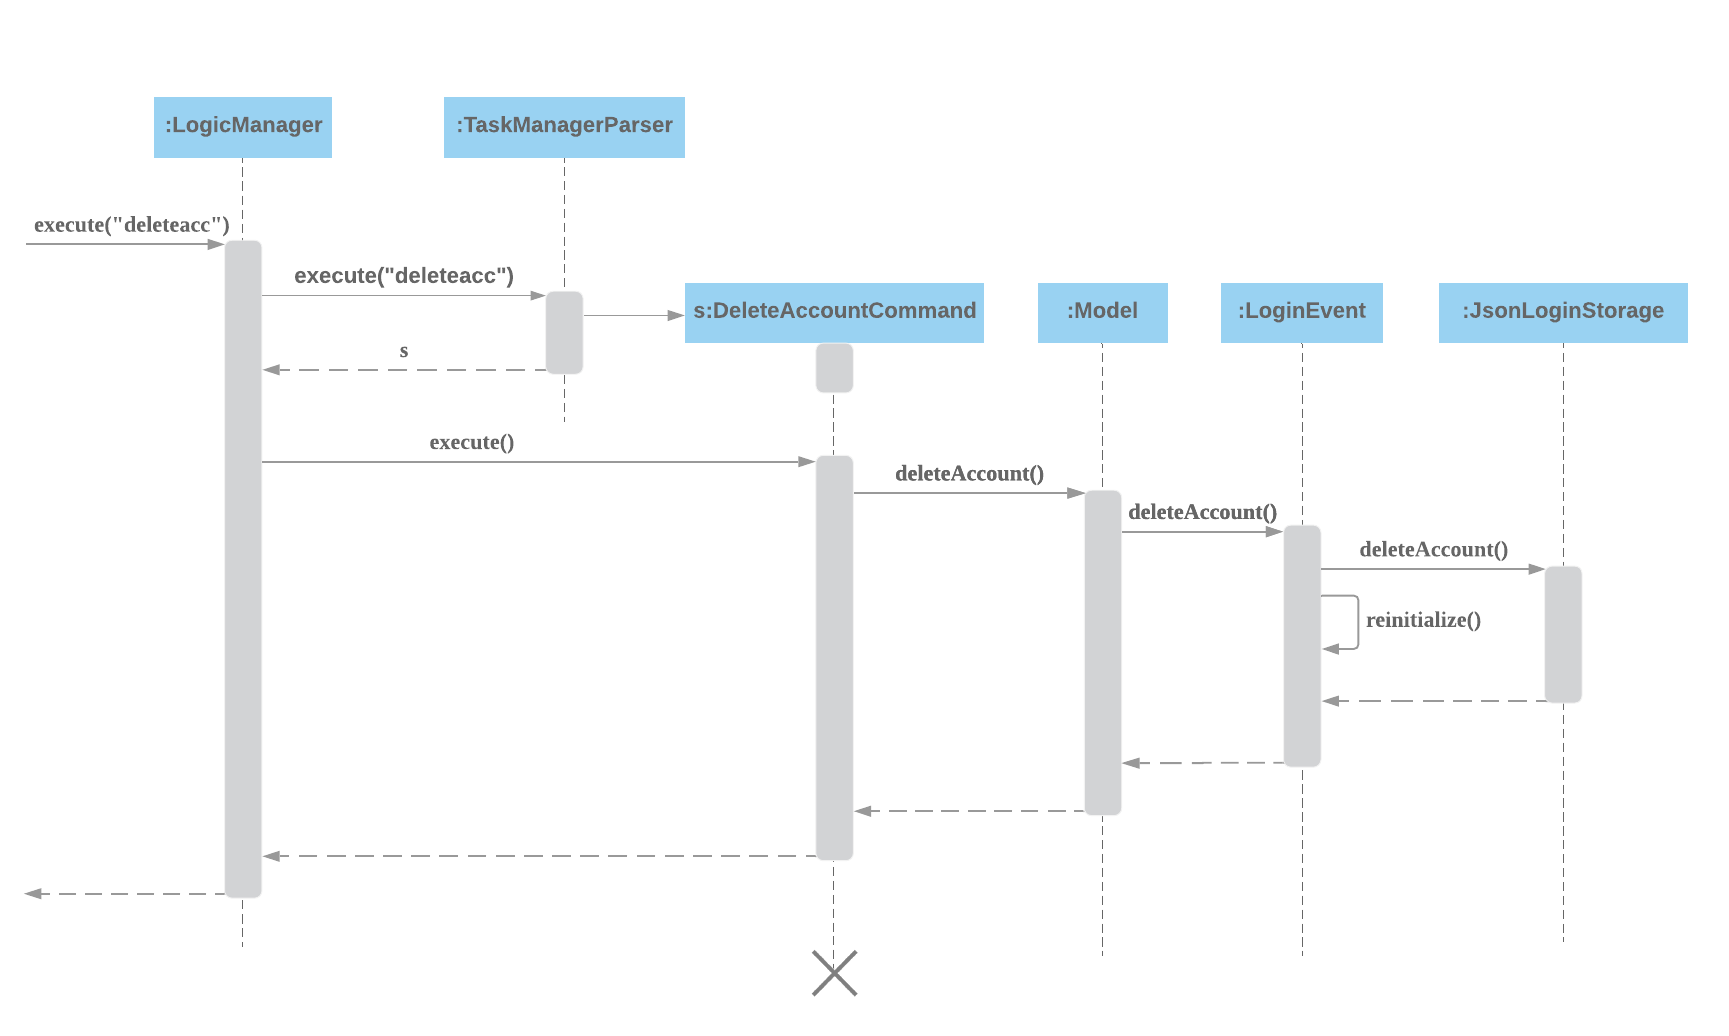
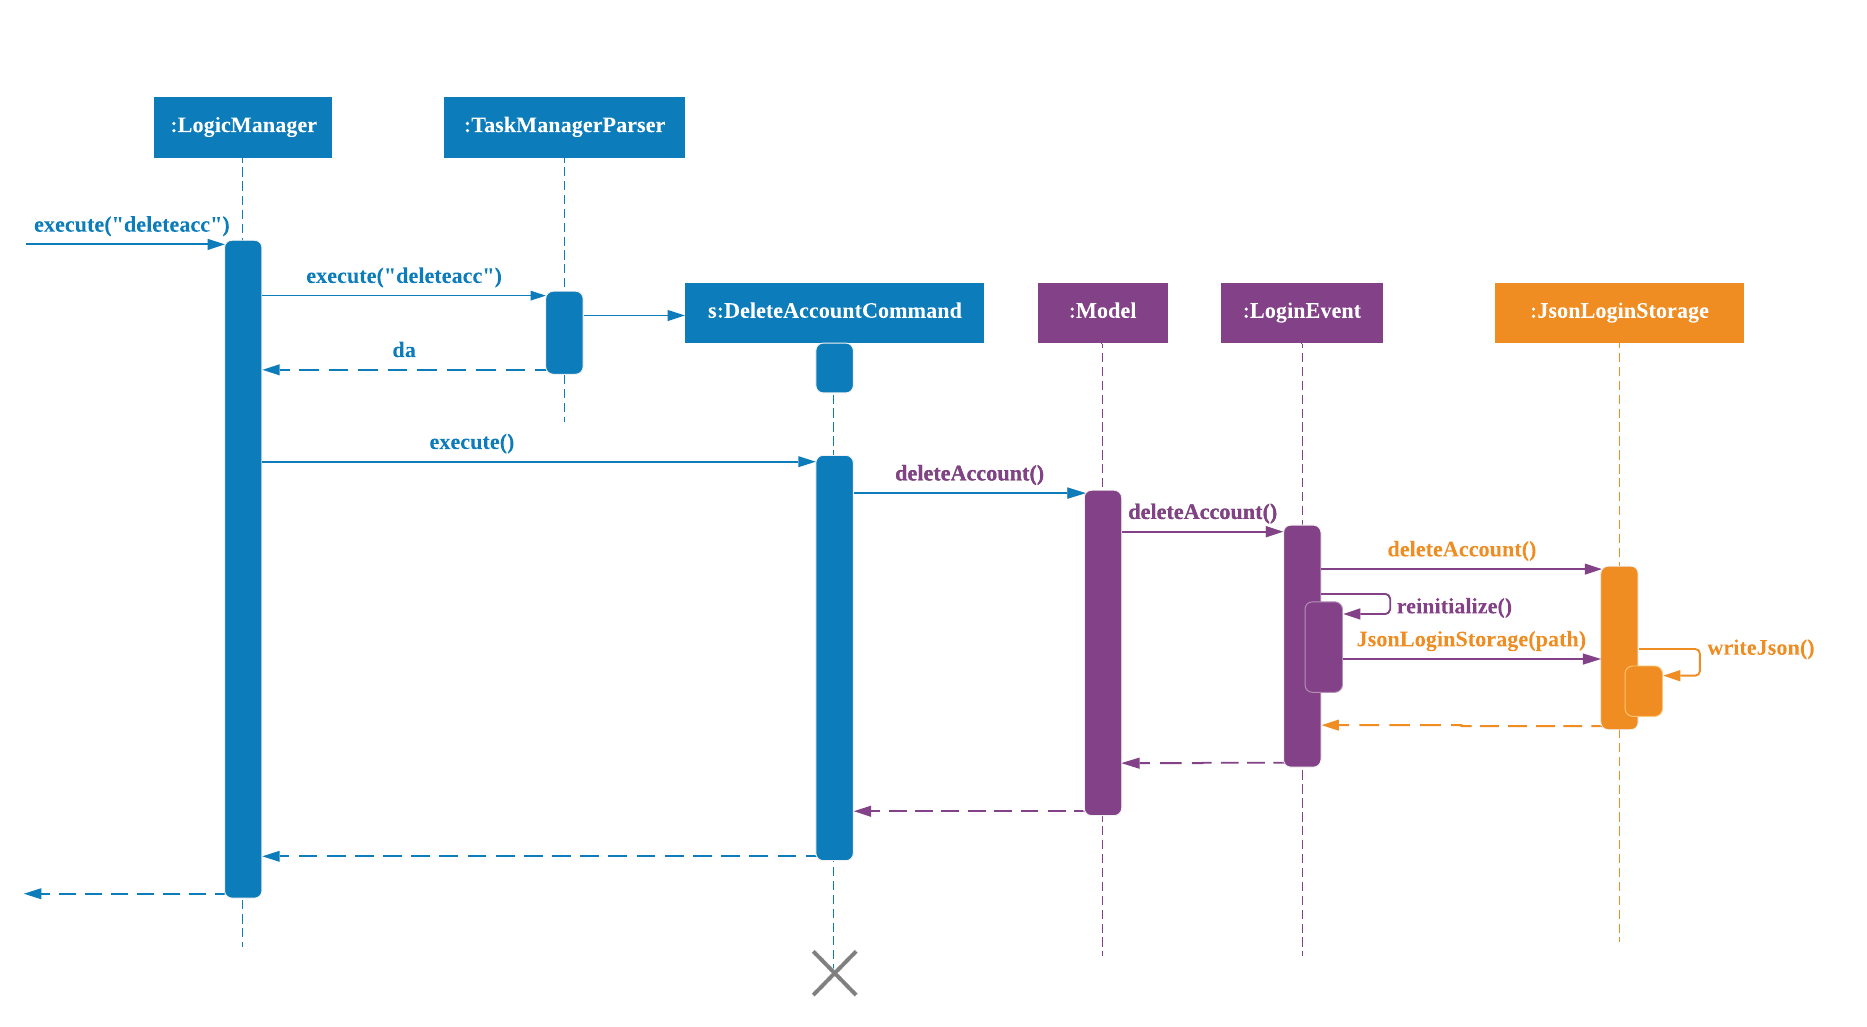
Update developer guide, reformat codes

diff --git a/src/main/java/seedu/address/model/LoginEvent.java b/src/main/java/seedu/address/model/LoginEvent.java
@@ -13,9 +13,9 @@ import seedu.address.commons.core.LogsCenter;
 import seedu.address.commons.util.StringUtil;
 import seedu.address.logic.commands.exceptions.CommandException;
 import seedu.address.logic.parser.GenerateHash;
-import seedu.address.model.login.Password;
-import seedu.address.model.login.User;
-import seedu.address.model.login.Username;
+import seedu.address.model.account.Password;
+import seedu.address.model.account.User;
+import seedu.address.model.account.Username;
 import seedu.address.storage.JsonLoginStorage;
 
 /**
@@ -34,7 +34,7 @@ public class LoginEvent {
      */
 
     public LoginEvent() {
-        final Path loginInfoPath = Paths.get("login.json");
+        final Path loginInfoPath = Paths.get("account.json");
         final Username username = new Username("admin");
         final Password password = new Password("admin");
         user = new User(username, password);
@@ -54,7 +54,7 @@ public class LoginEvent {
      * Reinitialize LoginEvent
      */
     public void reinitialize() {
-        final Path loginInfoPath = Paths.get("login.json");
+        final Path loginInfoPath = Paths.get("account.json");
         final Username username = new Username("admin");
         final Password password = new Password("admin");
         user = new User(username, password);
@@ -84,7 +84,7 @@ public class LoginEvent {
         } catch (NoSuchAlgorithmException | InvalidKeySpecException e) {
             logger.warning("Password cannot be hashed");
         } catch (FileNotFoundException e) {
-            logger.warning("login.json cannot be found in file path" + StringUtil.getDetails(e));
+            logger.warning("account.json cannot be found in file path" + StringUtil.getDetails(e));
         } catch (IOException e) {
             logger.warning("User storage is unable to read or write to Json file" + StringUtil.getDetails(e));
         }
@@ -143,7 +143,7 @@ public class LoginEvent {
     }
 
     /**
-     * Deletes login.Json file with accounts
+     * Deletes account.Json file with accounts
      * @return
      */
     public void deleteAccount() {
@@ -172,7 +172,7 @@ public class LoginEvent {
     }
 
     /**
-     * Retrieves the login status of the user
+     * Retrieves the account status of the user
      * @return true if user is logged in
      */
     public boolean getLoginStatus() {
@@ -180,7 +180,7 @@ public class LoginEvent {
     }
 
     /**
-     * Retrieves the login status of the admin
+     * Retrieves the account status of the admin
      * @return true if the admin is logged in
      */
     public boolean getAdminStatus() {

diff --git a/src/main/java/seedu/address/logic/commands/LoginCommand.java b/src/main/java/seedu/address/logic/commands/LoginCommand.java
@@ -7,30 +7,30 @@ import static seedu.address.logic.parser.CliSyntax.PREFIX_USERNAME;
 import seedu.address.logic.CommandHistory;
 import seedu.address.logic.commands.exceptions.CommandException;
 import seedu.address.model.Model;
-import seedu.address.model.login.User;
+import seedu.address.model.account.User;
 
 /**
  * Login command
  */
 
 public class LoginCommand extends Command {
-    public static final String COMMAND_WORD = "login";
+    public static final String COMMAND_WORD = "account";
 
     public static final String MESSAGE_USAGE = COMMAND_WORD + "USERNAME: "
                                              + PREFIX_USERNAME + "PASSWORD: "
                                              + PREFIX_PASSWORD;
     public static final String MESSAGE_SUCCESS = "Logged in as %1$s";
     public static final String MESSAGE_LOGGED_USER = "You are already logged in! You need to logout"
-                                                   + " if you want to login into another account.";
+                                                   + " if you want to account into another account.";
     public static final String MESSAGE_LOGGED_ADMIN = "You are logged in as admin.";
 
     public static final String MESSAGE_FAILURE = "Please Login again! "
-                                               + "Command Format: [login u/USERNAME p/PASSWORD]";
+                                               + "Command Format: [account u/USERNAME p/PASSWORD]";
 
     private final User loginInfo;
 
     /**
-     * Creates a LoginCommand to login user
+     * Creates a LoginCommand to account user
      *
      * @param user
      */

diff --git a/src/main/java/seedu/address/model/Model.java b/src/main/java/seedu/address/model/Model.java
@@ -6,8 +6,8 @@ import java.util.function.Predicate;
 import javafx.beans.property.ReadOnlyProperty;
 import javafx.collections.ObservableList;
 import seedu.address.commons.core.GuiSettings;
-import seedu.address.model.login.User;
-import seedu.address.model.login.Username;
+import seedu.address.model.account.User;
+import seedu.address.model.account.Username;
 import seedu.address.model.notes.Notes;
 import seedu.address.model.task.Task;
 
@@ -166,7 +166,7 @@ public interface Model {
     void logout();
 
     /**
-     * User login to Task Manager.
+     * User account to Task Manager.
      */
     void loginUser(User loginInfo);
 

diff --git a/src/main/java/seedu/address/model/ModelManager.java b/src/main/java/seedu/address/model/ModelManager.java
@@ -15,8 +15,8 @@ import javafx.collections.ObservableList;
 import javafx.collections.transformation.FilteredList;
 import seedu.address.commons.core.GuiSettings;
 import seedu.address.commons.core.LogsCenter;
-import seedu.address.model.login.User;
-import seedu.address.model.login.Username;
+import seedu.address.model.account.User;
+import seedu.address.model.account.Username;
 import seedu.address.model.notes.Notes;
 import seedu.address.model.notes.exceptions.NotesNotFoundException;
 import seedu.address.model.task.Task;

diff --git a/src/main/java/seedu/address/logic/commands/Command.java b/src/main/java/seedu/address/logic/commands/Command.java
@@ -17,7 +17,7 @@ public abstract class Command {
      * @return feedback message of the operation result for display
      * @throws CommandException If an error occurs during command execution.
      */
-    public static final String MESSAGE_LOGIN_REQUIRED = "You need to login to use this command.";
+    public static final String MESSAGE_LOGIN_REQUIRED = "You need to account to use this command.";
 
     public abstract CommandResult execute(Model model, CommandHistory history) throws CommandException;
 

diff --git a/src/main/java/seedu/address/logic/parser/ParserUtil.java b/src/main/java/seedu/address/logic/parser/ParserUtil.java
@@ -9,8 +9,8 @@ import java.util.Set;
 import seedu.address.commons.core.index.Index;
 import seedu.address.commons.util.StringUtil;
 import seedu.address.logic.parser.exceptions.ParseException;
-import seedu.address.model.login.Password;
-import seedu.address.model.login.Username;
+import seedu.address.model.account.Password;
+import seedu.address.model.account.Username;
 import seedu.address.model.notes.Content;
 import seedu.address.model.notes.Heading;
 import seedu.address.model.tag.Tag;

diff --git a/src/main/java/seedu/address/logic/parser/SignupCommandParser.java b/src/main/java/seedu/address/logic/parser/SignupCommandParser.java
@@ -9,9 +9,9 @@ import java.util.stream.Stream;
 
 import seedu.address.logic.commands.SignupCommand;
 import seedu.address.logic.parser.exceptions.ParseException;
-import seedu.address.model.login.Password;
-import seedu.address.model.login.User;
-import seedu.address.model.login.Username;
+import seedu.address.model.account.Password;
+import seedu.address.model.account.User;
+import seedu.address.model.account.Username;
 
 /**
  * SignupCommand Parser

diff --git a/src/main/java/seedu/address/logic/parser/LoginCommandParser.java b/src/main/java/seedu/address/logic/parser/LoginCommandParser.java
@@ -10,9 +10,9 @@ import java.util.stream.Stream;
 
 import seedu.address.logic.commands.LoginCommand;
 import seedu.address.logic.parser.exceptions.ParseException;
-import seedu.address.model.login.Password;
-import seedu.address.model.login.User;
-import seedu.address.model.login.Username;
+import seedu.address.model.account.Password;
+import seedu.address.model.account.User;
+import seedu.address.model.account.Username;
 
 
 

diff --git a/src/main/java/seedu/address/logic/commands/SignupCommand.java b/src/main/java/seedu/address/logic/commands/SignupCommand.java
@@ -7,7 +7,7 @@ import static seedu.address.logic.parser.CliSyntax.PREFIX_USERNAME;
 import seedu.address.logic.CommandHistory;
 import seedu.address.logic.commands.exceptions.CommandException;
 import seedu.address.model.Model;
-import seedu.address.model.login.User;
+import seedu.address.model.account.User;
 
 /**
  * SignUp Command

diff --git a/src/main/java/seedu/address/storage/JsonLoginStorage.java b/src/main/java/seedu/address/storage/JsonLoginStorage.java
@@ -80,7 +80,7 @@ public class JsonLoginStorage implements LoginStorage {
     }
 
     /**
-     * Creates user login account with JSON file
+     * Creates user account account with JSON file
      * @throws IOException if cannot be written to JSON file
      */
     private void createLoginInfoFile() throws IOException {

diff --git a/src/main/java/seedu/address/logic/commands/LogoutCommand.java b/src/main/java/seedu/address/logic/commands/LogoutCommand.java
@@ -5,7 +5,7 @@ import static java.util.Objects.requireNonNull;
 import seedu.address.logic.CommandHistory;
 import seedu.address.logic.commands.exceptions.CommandException;
 import seedu.address.model.Model;
-import seedu.address.model.login.Username;
+import seedu.address.model.account.Username;
 
 /**
  * Logout Command

diff --git a/src/main/java/seedu/address/logic/commands/DeleteAccountCommand.java b/src/main/java/seedu/address/logic/commands/DeleteAccountCommand.java
@@ -3,7 +3,7 @@ package seedu.address.logic.commands;
 import seedu.address.logic.CommandHistory;
 import seedu.address.logic.commands.exceptions.CommandException;
 import seedu.address.model.Model;
-import seedu.address.model.login.Username;
+import seedu.address.model.account.Username;
 
 /**
  * DeleteAccountCommand
